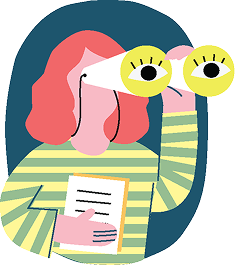
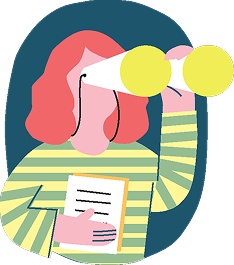
파일 변경

diff --git a/index.html b/index.html
@@ -186,7 +186,11 @@
                         <p>Input your search criteria based on your budget, location, and desired stay type (e.g.,
                             One-room
                             or Goshiwon).</p>
-                        <img src="images/icon_search.png" alt="">
+                        <div class="eyeani">
+                            <img src="images/icon_search.png" alt="" class="people">
+                            <img src="images/icon_search_eyes.png" alt="" class="eyes">
+                            <img src="images/icon_search_lid.png" alt="" class="lid">
+                        </div>
                     </div>
                     <div class="box b2">
                         <h4>Get Guided Support</h4>
@@ -221,57 +225,57 @@
                     <div class="reflet_benefits clearfix">
                         <a href="#b1" class="reflet_bottom"><img src="images/reflet_1.png" alt="pay rent by card"></a>
                         <a href="#b2" class="reflet_bottom"><img src="images/reflet_2.png" alt="document support"></a>
-                        <a href="#" class="reflet_bottom"><img src="images/reflet_3.png" alt="dedicated manager"></a>
-                        <a href="#" class="reflet_bottom"><img src="images/reflet_4.png" alt="translate service"></a>
-                        <a href="#" class="reflet_bottom"><img src="images/reflet_5.png" alt="help finding a room"></a>
-                        <a href="#" class="reflet_bottom"><img src="images/reflet_6.png" alt="transparent pricing"></a>
+                        <a href="#b3" class="reflet_bottom"><img src="images/reflet_3.png" alt="dedicated manager"></a>
+                        <a href="#b4" class="reflet_bottom"><img src="images/reflet_4.png" alt="translate service"></a>
+                        <a href="#b5" class="reflet_bottom"><img src="images/reflet_5.png"
+                                alt="help finding a room"></a>
+                        <a href="#b6" class="reflet_bottom"><img src="images/reflet_6.png"
+                                alt="transparent pricing"></a>
                     </div>
 
                 </div>
 
+            </div>
 
-                <!-- 모달 레이어 팝업!! -->
+            <!-- 모달 레이어 팝업!! -->
+            <div class="popup">
 
-                <div class="popup">
-
-                    <div class="benefit" id="b1">
-                        <h4 class="title">Pay Rent by Card</h4>
-
-                        <p class="benefit_des">No more bank visits or overseas transfers—pay rent securely with an
-                            international credit card.</p>
-                    </div>
-
-                    <div class="benefit" id="b2">
-                        <h4 class="title">Document Support</h4>
-                        <p class="benefit_des">We handle all paperwork with the landlord in Korean, including documents
-                            for alien
-                            registration.</p>
-                    </div>
-                    <div class="benefit" id="b3">
-                        <h4 class="title">Dedicated Manager</h4>
-                        <p class="benefit_des">Get a dedicated FOHO manager who replies within 24 hours in your
-                            language.</p>
-                    </div>
-                    <div class="benefit" id="b4">
-                        <h4 class="title">Translate Service</h4>
-                        <p class="benefit_des">Real‑time translation for all conversations with the landlord—never miss
-                            important details.
-                        </p>
-                    </div>
-                    <div class="benefit" id="b5">
-                        <h4 class="title">Help Finding a Room</h4>
-                        <p class="benefit_des">Can’t find the right fit? Local experts will search within your budget
-                            and propose options.
-                        </p>
-                    </div>
-                    <div class="benefit" id="b6">
-                        <h4 class="title">Transparent Pricing</h4>
-                        <p class="benefit_des">Clear, upfront pricing with no hidden fees.<br>Pay only when we
-                            successfully
-                            help.</p>
-                    </div>
-
+                <div class="benefit" id="b1">
+                    <h4 class="title">Pay Rent by Card</h4>
+                    <p class="benefit_des">No more bank visits or overseas transfers—pay rent securely with an
+                        international credit card.</p>
                 </div>
+
+                <div class="benefit" id="b2">
+                    <h4 class="title">Document Support</h4>
+                    <p class="benefit_des">We handle all paperwork with the landlord in Korean, including documents
+                        for alien
+                        registration.</p>
+                </div>
+                <div class="benefit" id="b3">
+                    <h4 class="title">Dedicated Manager</h4>
+                    <p class="benefit_des">Get a dedicated FOHO manager who replies within 24 hours in your
+                        language.</p>
+                </div>
+                <div class="benefit" id="b4">
+                    <h4 class="title">Translate Service</h4>
+                    <p class="benefit_des">Real‑time translation for all conversations with the landlord—never miss
+                        important details.
+                    </p>
+                </div>
+                <div class="benefit" id="b5">
+                    <h4 class="title">Help Finding a Room</h4>
+                    <p class="benefit_des">Can’t find the right fit? Local experts will search within your budget
+                        and propose options.
+                    </p>
+                </div>
+                <div class="benefit" id="b6">
+                    <h4 class="title">Transparent Pricing</h4>
+                    <p class="benefit_des">Clear, upfront pricing with no hidden fees.<br>Pay only when we
+                        successfully
+                        help.</p>
+                </div>
+
             </div>
         </article>
 

diff --git a/css/index.css b/css/index.css
@@ -280,6 +280,25 @@ article.features .contents .b1 {
     background-color: #FA6868cc;
 }
 
+article.features .contents .b1 .eyeani {
+    position: relative;
+}
+
+article.features .contents .b1 .eyeani .eyes {
+    position: absolute;
+    left: 148px;
+    bottom: 185px;
+}
+
+article.features .contents .b1 .eyeani .lid {
+    position: absolute;
+    left: 148px;
+    bottom: 179px;
+
+    display: none;
+}
+
+
 article.features .contents .b2 {
     background-color: #F5F150e6;
 }
@@ -314,10 +333,12 @@ article.why-foho {
     /*     padding: 150px 0 ; */
     background-color: #F5F150;
     background: url(../images/bg_koreanstyle.jpg) no-repeat center / cover;
+
+    position: relative;
 }
 
 article.why-foho .inner {
-    position: relative;
+    /* position: relative; */
 
     /* margin-top: 100px; */
 }
@@ -355,6 +376,17 @@ article.why-foho .reflet {
     margin-bottom: -2px;
 }
 
+/* //////////////////종이 들리는 효과////////////////////////////// */
+.reflet .reflet_bottom {
+    transition: transform 0.2s cubic-bezier(.34, 1.56, .64, 1), box-shadow 0.2s;
+}
+
+.reflet_bottom:hover {
+    transform: translateY(-14px) scale(1.05) rotateX(7deg);
+    box-shadow: 0 14px 36px -8px rgba(0, 0, 0, 0.18);
+    z-index: 2;
+}
+
 .reflet .reflet_benefits {}
 
 .reflet .reflet_benefits a {
@@ -369,8 +401,18 @@ article.why-foho .reflet {
     display: block;
 }
 
+
+/*  modal 실행 css */
+
 article.why-foho .popup {
     width: 100%;
+    height: 100%;
+
+    background-color: rgba(0, 0, 0, 0.8);
+    position: absolute;
+    left: 0;
+    top: 0;
+
     display: none;
 }
 
@@ -386,7 +428,12 @@ article.why-foho .popup .benefit {
     left: 50%;
     top: 50%;
     transform: translate(-50%, -50%);
+
+    display: none;
+
 }
+
+
 
 .popup .benefit .title {
     font-size: 24px;
@@ -401,7 +448,9 @@ article.why-foho .popup .benefit {
     color: #222;
 }
 
+
 /* //// article.guides css /////// */
+
 article.guides {
     width: 100%;
     padding: 150px 0 0;
@@ -411,6 +460,7 @@ article.guides .viewer {
     width: 96%;
     margin-left: 4%;
     /* margin: 0 auto; */
+    overflow: hidden;
 
     margin-bottom: 100px;
 }
@@ -426,17 +476,20 @@ article.guides .cards_box .card {
     padding: 0.8%;
     box-sizing: border-box;
     box-shadow: 2px 2px 9px 0 rgba(204, 204, 204, 0.5);
+    border: 1px solid #ccc;
 
     background-color: #fff;
     border-radius: 20px;
     float: left;
+    /* margin-left: 1%; */
+    margin-right: 1%;
 
     position: relative;
 }
 
-article.guides .cards_box .card~.card {
+/* article.guides .cards_box .card~.card {
     margin-left: 1%;
-}
+} */
 
 article.guides .cards_box .card .img_viewer {
     width: 100%;

diff --git a/js/index.js b/js/index.js
@@ -8,7 +8,38 @@ $(function () {
 
     setInterval(leftmove, 6000);
 
+    var benefitSrc = '';
+
+    $('.reflet_benefits a').click(function (evt) {
+
+        evt.preventDefault();
+
+        //var benefitSrc = $(this).attr('href');
+        benefitSrc = $(this).attr('href');
+        console.log(benefitSrc);
+
+        //모달창('.popup) 등장, 이미지 박스('.benefit') 등장
+        $('.popup').show();
+        //$('.benefit').hide();
+        $(benefitSrc).show();
+
+    });
+
+    //모달창 닫기
+    $('.popup').click(function () {
+        //$(this).hide().children().find(benefitSrc).hide();
+        //$(this).hide().find(benefitSrc).hide();
+        $(this).hide().children().hide();
+    });
+
+    setInterval(slidemove, 3000);
+
+    //slidemove();
+
+    // 2~4초 마다 깜빡임 반복
+    setInterval(blink, 2000 + Math.random() * 2000);
 });
+
 
 /* ////////////////////
 함수명: leftmove
@@ -21,7 +52,7 @@ function leftmove() {
 
     //슬라이드 한칸 크기 구하기
     var liw = $('.main-image').width();
-    console.log('슬라이드 한칸 크기' + liw); //1006
+    //console.log('슬라이드 한칸 크기' + liw); //1006
 
     $('.gallery').animate({
         //marginLeft: '-=' + liw
@@ -36,3 +67,36 @@ function leftmove() {
     });
 
 }
+
+/* ////////////////////
+함수명: slidemove
+기능: card 슬라이드를 왼쪽으로 이동
+///////////////////////*/
+
+function slidemove() {
+
+    //슬라이드 한칸 크기 구하기 
+    var cardwi = $('.card').outerWidth(true);
+    console.log('box한칸 크기: ' + cardwi); //373
+
+    $('.cards_box').animate({
+        //marginLeft: -(cardwi + 9)
+        marginLeft: -cardwi
+    }, 1000, function () {
+
+        $('.card').first().appendTo('.cards_box');
+        $('.cards_box').css('margin-left', 0);
+    });
+
+}
+
+function blink() {
+    $('.eyeani .eyes').hide();
+    $('.eyeani .lid').show();
+    setTimeout(function () {
+        $('.eyeani .lid').hide();
+        $('.eyeani .eyes').show();
+    }, 120); // 실제 깜빡임 지속시간(ms)
+}
+
+

diff --git a/css/common.css b/css/common.css
@@ -41,6 +41,8 @@
 body {
     font-family: "Plus Jakarta Sans", sans-serif;
     font-weight: 400;
+
+
 }
 
 .viewmore_btn {
